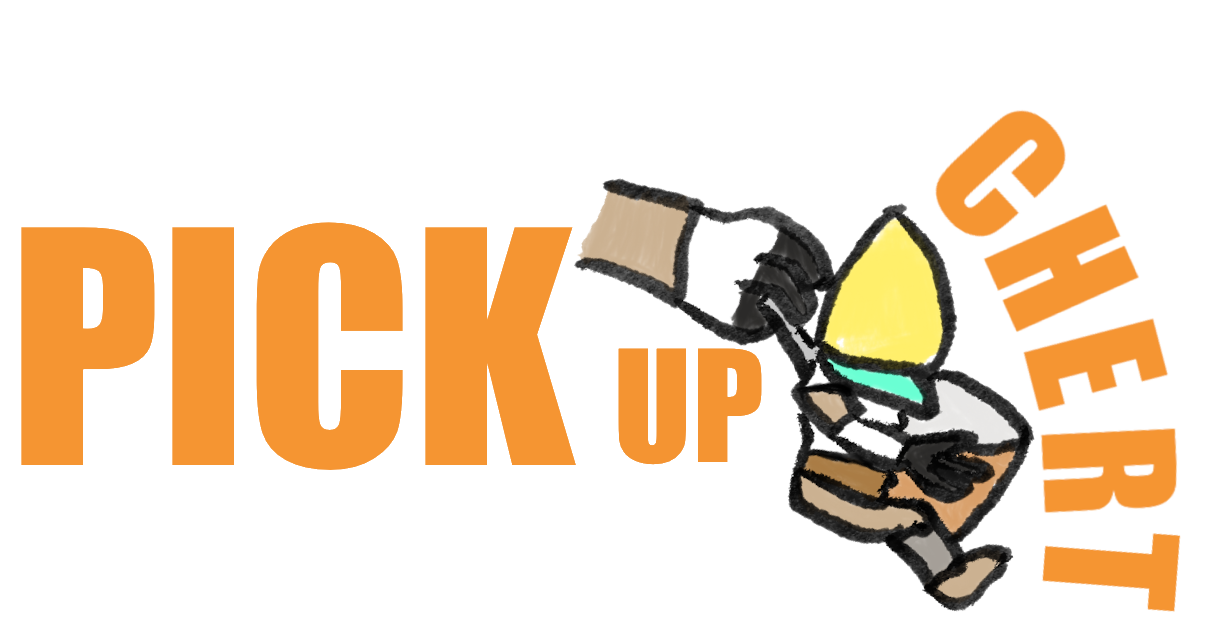
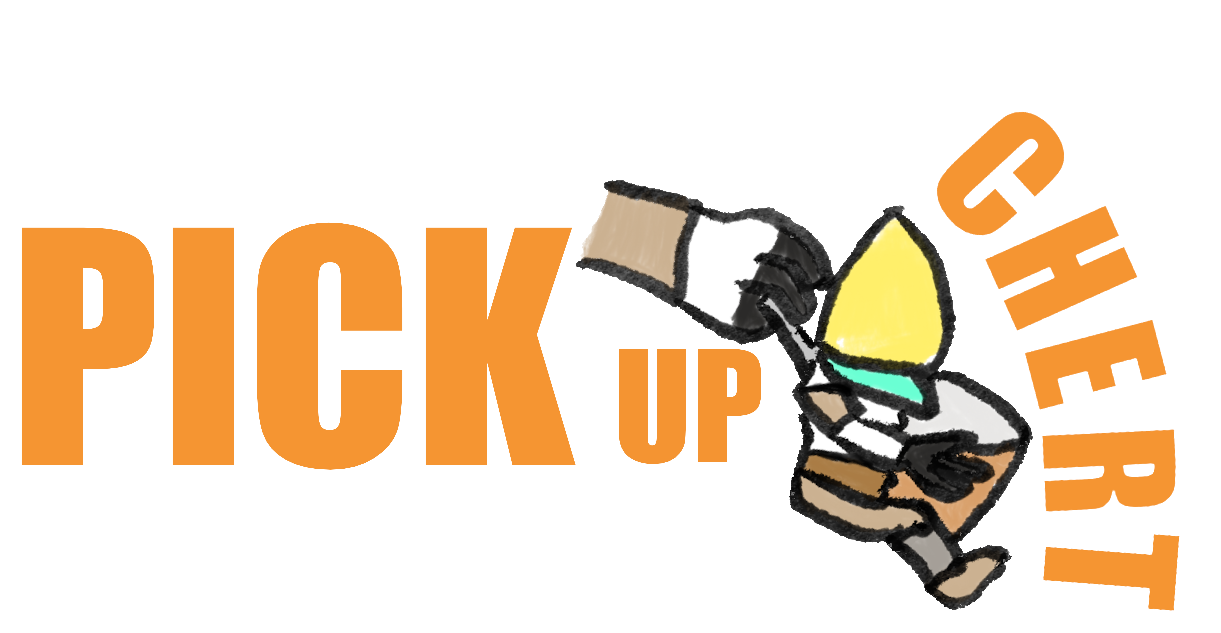
more stabilized campfire actions

diff --git a/PickUpChert/Traveler.cs b/PickUpChert/Traveler.cs
@@ -18,6 +18,7 @@ namespace PickUpChert {
         PathProbe _currentProbe;
         PathProbe _targetProbe;
         bool _stop;
+        bool _isSitting;
 
         public void AddStackedPathProbe(PathProbe probe, bool head = true) {
             if(_setForStackedPathProbes.Contains(probe)) {
@@ -81,6 +82,10 @@ namespace PickUpChert {
                 return; // no ship!?
             }
 
+            if(_isSitting) {
+                StopSitting();
+            }
+
             var probes = ship.GetComponentsInChildren<PathProbe>();
             var probe = probes.OrderBy(x => Vector3.Distance(x.transform.position, transform.position)).FirstOrDefault();
             if(probe != null) {
@@ -134,6 +139,17 @@ namespace PickUpChert {
             }
         }
 
+        public void StartSitting() {
+            _isSitting = true;
+            PickUpChert.Locomotion.GabbroMoveStop();
+            PickUpChert.Locomotion.GabbroSitting();
+        }
+
+        public void StopSitting() {
+            _isSitting = false;
+            PickUpChert.Locomotion.GabbroStandUp();
+        }
+
         virtual public void ConversationStart() {
 
         }
@@ -154,6 +170,12 @@ namespace PickUpChert {
             }
             if(_stop) {
                 return;
+            }
+            if(_isSitting) {
+                if (Vector3.Distance(Locator.GetPlayerTransform().position, transform.position) < 10.0f) {
+                    return;
+                }
+                StopSitting();
             }
 
             if (Vector3.Distance(Locator.GetPlayerTransform().position, transform.position) < 6.0f) {

diff --git a/PickUpChert/TravelerPatch.cs b/PickUpChert/TravelerPatch.cs
@@ -85,18 +85,19 @@ namespace PickUpChert {
         // ## campfire
         [HarmonyPostfix]
         [HarmonyPatch(typeof(Campfire), nameof(Campfire.StartRoasting))]
-        public static void Campfire_StartRoasting_Postfix() {
+        public static void Campfire_StartRoasting_Postfix(Campfire __instance) {
             if(ModifyObjects.Gabbro.IsActivated) {
-                PickUpChert.Locomotion.GabbroSitting();
+                ModifyObjects.Gabbro.StartSitting();
+                PickUpChert.Locomotion.GabbroLookAt(__instance.transform, Vector3.zero);
             }
         }
 
-        [HarmonyPostfix]
-        [HarmonyPatch(typeof(Campfire), nameof(Campfire.StopRoasting))]
-        public static void Campfire_StopRoasting_Postfix() {
-            if(ModifyObjects.Gabbro.IsActivated) {
-                PickUpChert.Locomotion.GabbroStandUp();
-            }
-        }
+        //[HarmonyPostfix]
+        //[HarmonyPatch(typeof(Campfire), nameof(Campfire.StopRoasting))]
+        //public static void Campfire_StopRoasting_Postfix() {
+        //    if(ModifyObjects.Gabbro.IsActivated) {
+        //        ModifyObjects.Gabbro.StopSitting();
+        //    }
+        //}
     }
 }

diff --git a/PickUpChert/ILocomotionAPI.cs b/PickUpChert/ILocomotionAPI.cs
@@ -27,6 +27,8 @@ namespace TravelersLocomotionPack {
 
         public void GabbroMoveStop();
 
+        public void GabbroLookAt(Transform target, Vector3 offset);
+
         public void GabbroStopPlaying();
 
         public void GabbroStartPlaying();